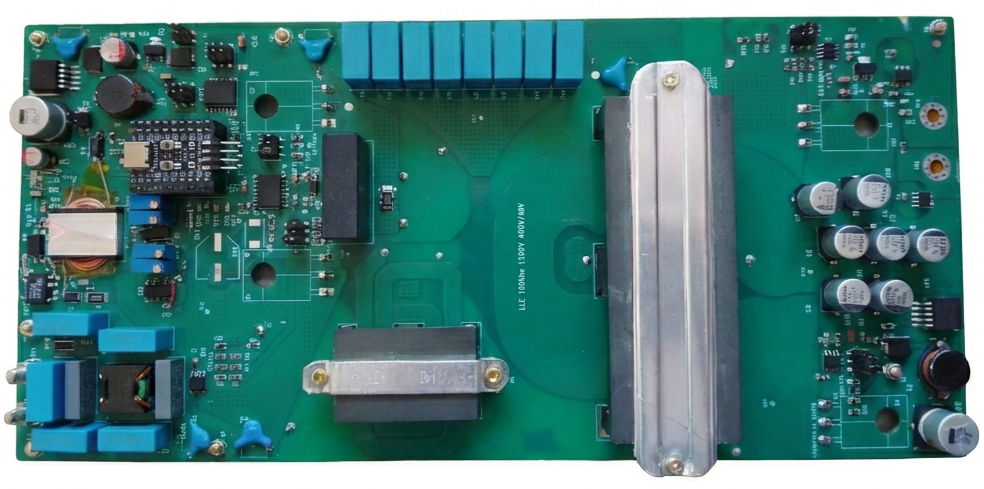
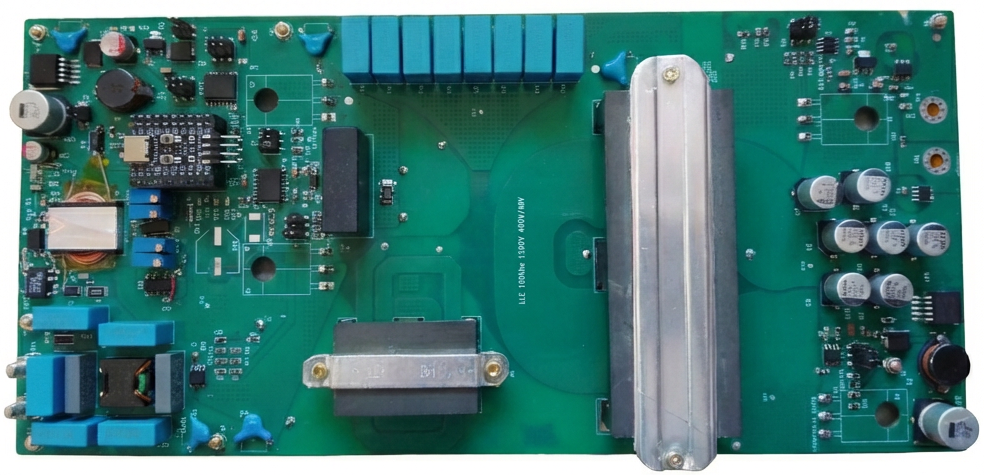
EMI TEST"

diff --git a/pages/llc/llc.html b/pages/llc/llc.html
@@ -12,8 +12,8 @@
 // Main page configuration
 const mainConfig = {
   title: "1200W 400V/48V LLC DC-DC Converter Design",
-  description: "A comprehensive design and validation project for a high-efficiency LLC resonant DC-DC converter. This project covers hardware design, magnetic components optimization, and EMC testing for industrial power conversion applications.",
-  image: "imgs/main_project.png",  // Add your main image path here or leave empty ""
+  description: "This work presents an open-source design and experimental evaluation of an LLC resonant DC-DC converter. The project includes hardware development based on planar magnetic components, firmware implementation on an STM32 microcontroller, and comprehensive converter testing. It serves as an effective introductory platform for understanding the practical and industrial challenges associated with power electronics design.",
+  image: "imgs/dcdc_all2.png",  // Add your main image path here or leave empty ""
   mainLink: "https://github.com/BOAB235/Design_of_1200W_LLC_DCDC"
 };
 
@@ -29,31 +29,24 @@ const projectData = [
         projects: [
           {
             title: "LLC Tank Choice",
-            description: "Design and optimization of the LLC resonant tank parameters for efficient power conversion.",
-            image: "imgs/llc_tank.png",
-            pdf: "https://boab235.github.io/pages/llc/pdfs/01_LLC_48v_LLC_tank_design_note_v2.pdf",
+            description: "Design and optimization of the LLC resonant tank parameters.",
+            image: "pdfs/01_LLC_48v_LLC_tank_design_note_v2.png",
+            pdf: "pdfs/01_LLC_48v_LLC_tank_design_note_v2.pdf",
             folder: "https://github.com/BOAB235/Design_of_1200W_LLC_DCDC/tree/main/03_hw_design/01_design_justification/01_llc_tank"
           },
           {
             title: "Resonant and Output Capacitor",
-            description: "Selection and design of resonant capacitors and output capacitors for voltage regulation.",
-            image: "",
-            pdf: "https://boab235.github.io/pages/llc/pdfs/03_LLC_48v_LLC_output_capa_v4.pdf",
+            description: "Selection and design of resonant capacitors and output capacitors.",
+            image: "pdfs/03_LLC_48v_LLC_output_capa_v4.png",
+            pdf: "pdfs/03_LLC_48v_LLC_output_capa_v4.pdf",
             folder: "https://github.com/BOAB235/Design_of_1200W_LLC_DCDC/tree/main/03_hw_design/01_design_justification/03_Resonant_and_Output_Capacitor"
           },
           {
             title: "Design of Magnetic Cores Lm and Lr",
             description: "Magnetic core selection and design for transformer and resonant inductor optimization.",
-            image: "",
-            pdf: "https://boab235.github.io/pages/llc/pdfs/01_LLC_48v_LLC_Magnetic_Cores_V3.pdf",
+            image: "pdfs/01_LLC_48v_LLC_Magnetic_Cores_V3.png",
+            pdf: "pdfs/01_LLC_48v_LLC_Magnetic_Cores_V3.pdf",
             folder: "https://github.com/BOAB235/Design_of_1200W_LLC_DCDC/tree/main/03_hw_design/01_design_justification/01_transformer_and_Lr_cores"
-          }, 
-          {
-            title: "New test to BE REMOVED ",
-            description: "Detailed design and construction of the LLC transformer for optimal performance.",
-            image: "",
-            pdf: "https://boab235.github.io/pages/llc/pdfs/02_LLC_48v_LLC_transformer_design_note_v3.pdf",
-            folder: ""
           }
         ]
       }
@@ -75,9 +68,9 @@ const projectData = [
         projects: [
           {
             title: "Conducted Emissions Test",
-            description: "EMC testing and validation for conducted emissions compliance with industry standards.",
-            image: "",
-            pdf: "https://boab235.github.io/pages/llc/pdfs/EMC_Conducted_Emissions_Test_V4.pdf",
+            description: "EMC testing and validation for conducted emissions",
+            image: "pdfs/EMC_Conducted_Emissions_Test_V4.png",
+            pdf: "pdfs/EMC_Conducted_Emissions_Test_V4.pdf",
             folder: "https://github.com/BOAB235/Design_of_1200W_LLC_DCDC/tree/main/05_validations/02_emc/01_Conducted_Emissions_Test"
           }
         ]
@@ -86,39 +79,7 @@ const projectData = [
   }, 
 
 
-    {
-    tabTitle: "NEW TAB TEST",
-    tabLink: "https://github.com/BOAB235/Design_of_1200W_LLC_DCDC/tree/main/05_validations",
-    subtabs: [
-      {
-        subtabTitle: "EMI Tests",
-        subtabLink: "https://github.com/BOAB235/Design_of_1200W_LLC_DCDC/tree/main/05_validations/02_emc",
-        projects: [
-          {
-            title: "Conducted Emissions Test",
-            description: "EMC testing and validation for conducted emissions compliance with industry standards.",
-            image: "",
-            pdf: "https://boab235.github.io/pages/llc/pdfs/EMC_Conducted_Emissions_Test_V4.pdf",
-            folder: "https://github.com/BOAB235/Design_of_1200W_LLC_DCDC/tree/main/05_validations/02_emc/01_Conducted_Emissions_Test"
-          }
-        ]
-      }, 
 
-      {
-        subtabTitle: "NEW SUBTITLE TEST EMI Tests",
-        subtabLink: "https://github.com/BOAB235/Design_of_1200W_LLC_DCDC/tree/main/05_validations/02_emc",
-        projects: [
-          {
-            title: "Conducted Emissions Test",
-            description: "EMC testing and validation for conducted emissions compliance with industry standards.",
-            image: "",
-            pdf: "https://boab235.github.io/pages/llc/pdfs/EMC_Conducted_Emissions_Test_V4.pdf",
-            folder: "https://github.com/BOAB235/Design_of_1200W_LLC_DCDC/tree/main/05_validations/02_emc/01_Conducted_Emissions_Test"
-          }
-        ]
-      }
-    ]
-  }
   // Add more tabs here:
   // {
   //   tabTitle: "New Tab",
@@ -202,7 +163,7 @@ body {
   border-radius: 8px;
   overflow: hidden;
   cursor: pointer;
-  background: var(--hairline);
+  background: transparent;
   display: flex;
   align-items: center;
   justify-content: center;
@@ -212,7 +173,8 @@ body {
 .hero-image-container img {
   width: 100%;
   height: 100%;
-  object-fit: cover;
+  /* object-fit: cover; */
+  object-fit: contain;
   transition: transform 0.3s;
 }
 
@@ -404,7 +366,7 @@ body {
 .project-image {
   width: 100%;
   height: 180px;
-  background: var(--hairline);
+  background: transparent;
   border-radius: 6px;
   margin-bottom: 12px;
   cursor: pointer;
@@ -418,7 +380,8 @@ body {
 .project-image img {
   width: 100%;
   height: 100%;
-  object-fit: cover;
+  /* object-fit: cover; */
+  object-fit: contain;
   transition: transform 0.3s;
 }
 
